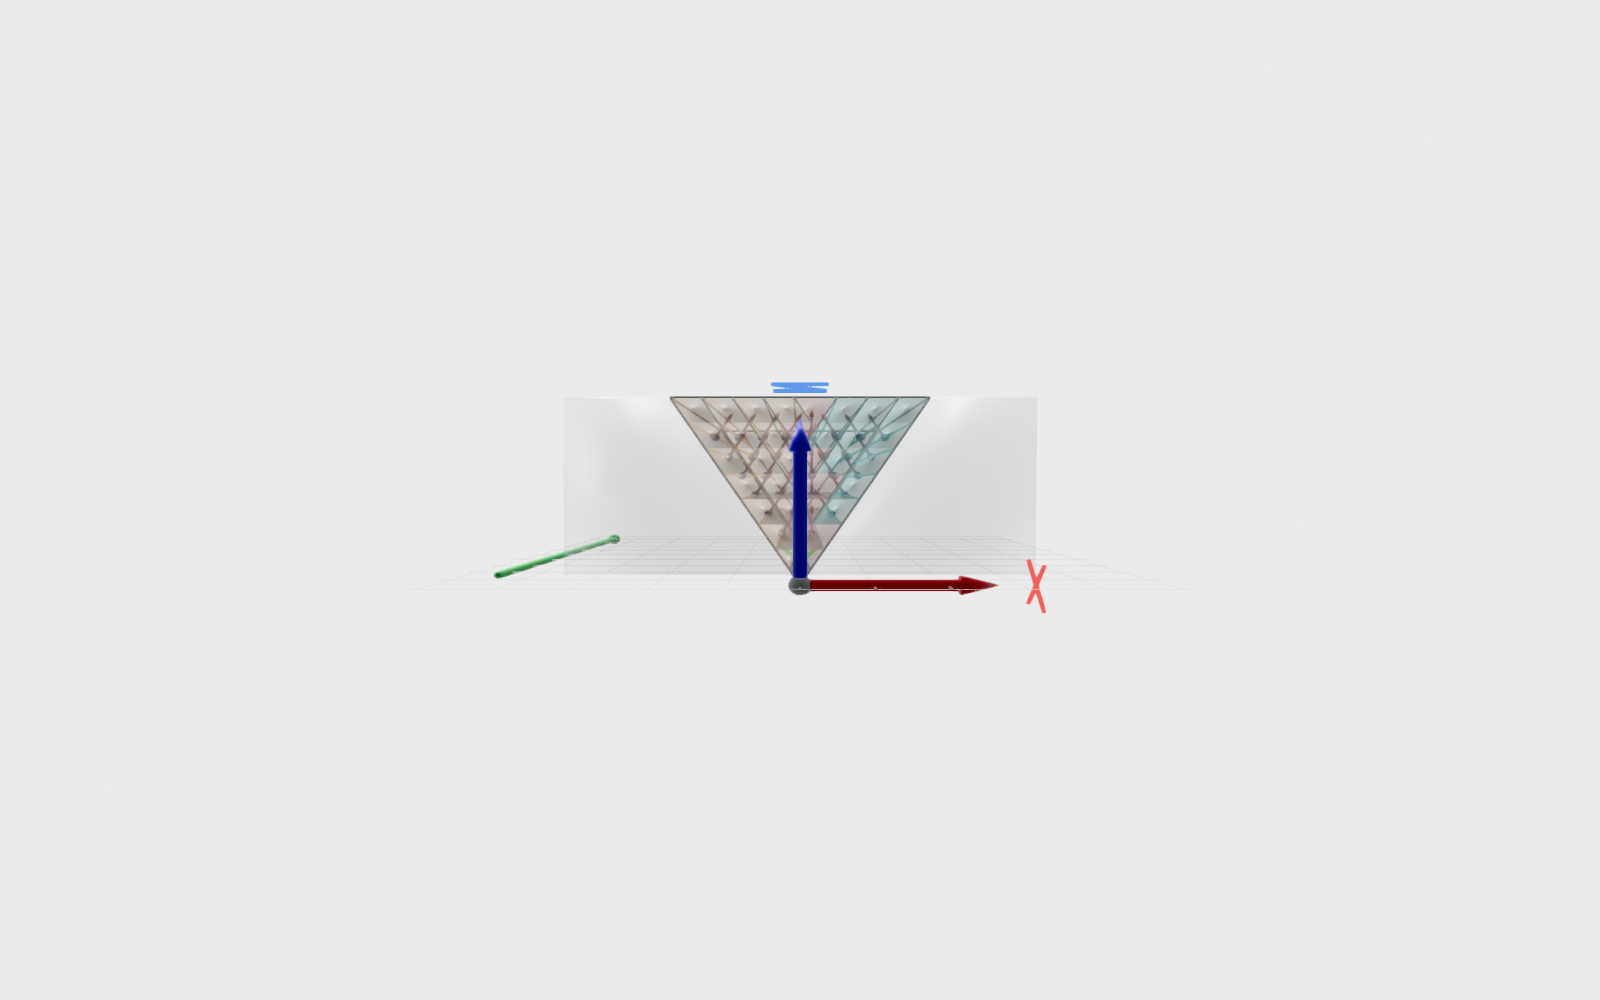
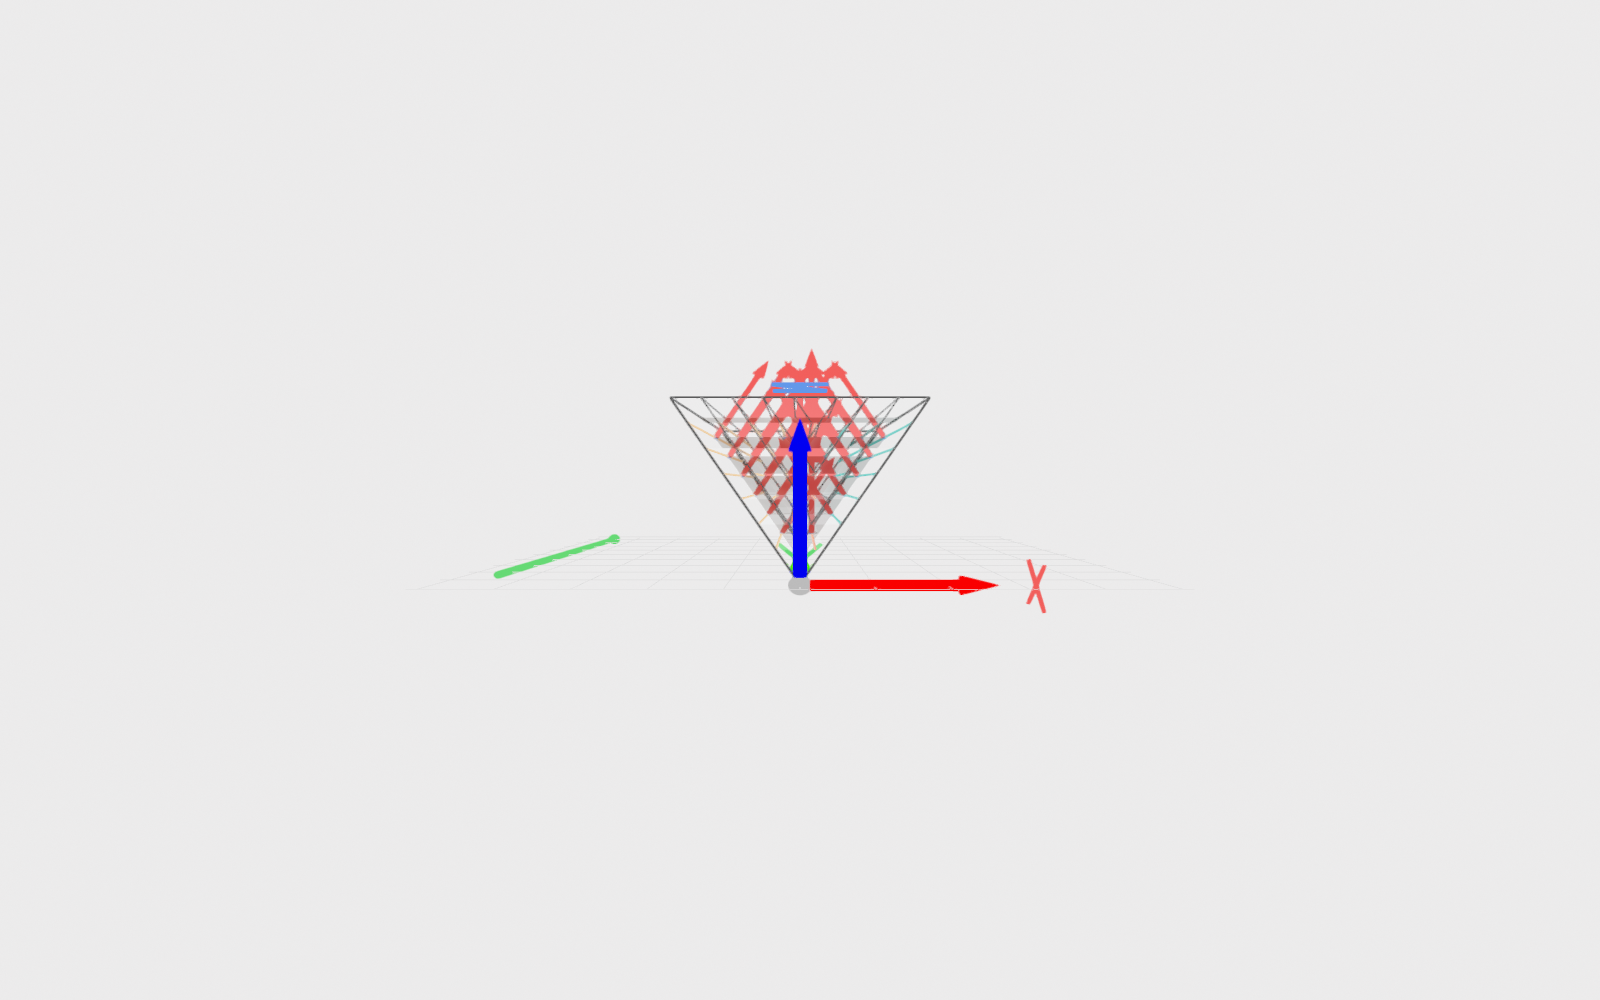
Add tunable transparency so torch arrows stay visible.
Expose --plate-alpha, --bead-alpha, --layer-alpha and --arrow-scale.
Default plates are wireframe-only; beads are a thin Y slice so pose
arrows are not buried inside the extruded volumes.

Changed region(s): [[0.4062, 0.341, 0.625, 0.589], [0.3438, 0.527, 0.375, 0.558], [0.3125, 0.558, 0.3438, 0.589]]

diff --git a/vgroove_weld_planning.py b/vgroove_weld_planning.py
@@ -67,6 +67,11 @@ class GrooveParams:
     d: float = 1.0
     v2: float = 1.0
     n_layers_simple: int = 7
+    plate_alpha: float = 0.0    # workpiece fill; 0 = wireframe only (arrows stay visible)
+    bead_alpha: float = 0.45    # weld-bead slice opacity
+    layer_alpha: float = 0.05   # layer-plane opacity
+    arrow_scale: float = 1.8    # torch-arrow length/thickness scale
+    bead_depth: float = 2.5     # bead slice thickness along Y, mm; 0 = full weld length
 
     @property
     def beta_rad(self) -> float:
@@ -586,8 +591,15 @@ def make_segment_dividers(plan: PlanResult) -> o3d.geometry.LineSet:
 
 def make_bead_meshes(plan: PlanResult) -> list[o3d.geometry.TriangleMesh]:
     L = plan.params.weld_length
+    depth = plan.params.bead_depth
+    if depth <= 0:
+        y0, y1 = 0.0, L
+    else:
+        y_mid = L / 2.0
+        half = 0.5 * depth
+        y0, y1 = y_mid - half, y_mid + half
     return [
-        _extrude_quad_mesh(bead.quad_xz, 0.0, L, BEAD_COLOR[bead.kind])
+        _extrude_quad_mesh(bead.quad_xz, y0, y1, BEAD_COLOR[bead.kind])
         for bead in plan.beads
     ]
 
@@ -606,13 +618,16 @@ def make_weld_paths(plan: PlanResult) -> o3d.geometry.LineSet:
 
 def make_weld_poses(plan: PlanResult) -> list[o3d.geometry.TriangleMesh]:
     y = plan.params.weld_length / 2.0
-    arrow_len = max(plan.t * 1.6, 3.5)
+    scale = max(plan.params.arrow_scale, 0.5)
+    arrow_len = max(plan.t * 2.6, 5.5) * scale
     geoms: list[o3d.geometry.TriangleMesh] = []
     for bead in plan.beads:
         origin = bead.position_3d(y)
-        geoms.append(make_sphere(origin, radius=0.45, color=POINT_COLOR))
-        geoms.append(make_arrow(origin, bead.torch_dir_3d() * arrow_len, TORCH_COLOR,
-                                cylinder_r=0.12, cone_r=0.28))
+        geoms.append(make_sphere(origin, radius=0.22, color=POINT_COLOR))
+        geoms.append(make_arrow(
+            origin, bead.torch_dir_3d() * arrow_len, TORCH_COLOR,
+            cylinder_r=0.16 * scale, cone_r=0.38 * scale,
+        ))
     return geoms
 
 
@@ -659,12 +674,21 @@ def _camera_eye_lookat_up(plan: PlanResult, view: str) -> tuple[np.ndarray, np.n
 
 
 def _vertex_color_material(alpha: float = 1.0) -> rendering.MaterialRecord:
-    """Keep TriangleMesh vertex colors (Open3D RGB triad, painted beads)."""
+    """Keep TriangleMesh vertex colors. alpha < 1 uses transparent shader."""
     mat = rendering.MaterialRecord()
-    mat.shader = "defaultLit" if alpha >= 0.999 else "defaultLitTransparency"
-    mat.base_color = [1.0, 1.0, 1.0, alpha]
+    a = float(np.clip(alpha, 0.0, 1.0))
+    mat.shader = "defaultLit" if a >= 0.999 else "defaultLitTransparency"
+    mat.base_color = [1.0, 1.0, 1.0, a]
     mat.base_roughness = 0.45
     mat.base_metallic = 0.0
+    return mat
+
+
+def _unlit_material() -> rendering.MaterialRecord:
+    """Opaque unlit material so pose/axis arrows stay bright."""
+    mat = rendering.MaterialRecord()
+    mat.shader = "defaultUnlit"
+    mat.base_color = [1.0, 1.0, 1.0, 1.0]
     return mat
 
 
@@ -676,6 +700,42 @@ def _line_material(width: float = 2.0) -> rendering.MaterialRecord:
     return mat
 
 
+def scene_items(plan: PlanResult) -> list[tuple[str, object, rendering.MaterialRecord]]:
+    """Named geometries with materials. Opaque arrows are last so they stay visible."""
+    p = plan.params
+    items: list[tuple[str, object, rendering.MaterialRecord]] = [
+        ("grid", make_xy_grid(p), _line_material(1.0)),
+        ("edges", make_groove_edges(p), _line_material(2.8)),
+        ("dividers", make_segment_dividers(plan), _line_material(1.6)),
+        ("paths", make_weld_paths(plan), _line_material(3.2)),
+    ]
+    plate_mat = _vertex_color_material(p.plate_alpha)
+    layer_mat = _vertex_color_material(p.layer_alpha)
+    bead_mat = _vertex_color_material(p.bead_alpha)
+    arrow_mat = _unlit_material()
+
+    if p.plate_alpha > 0.01:
+        for i, mesh in enumerate(make_plate_meshes(p)):
+            items.append((f"plate_{i}", mesh, plate_mat))
+    if p.layer_alpha > 0.01:
+        for i, mesh in enumerate(make_layer_planes(plan)):
+            items.append((f"layer_{i}", mesh, layer_mat))
+    if p.bead_alpha > 0.01:
+        for i, mesh in enumerate(make_bead_meshes(plan)):
+            items.append((f"bead_{i}", mesh, bead_mat))
+
+    axis_size = max(12.0, p.h * 0.85)
+    for i, geom in enumerate(make_coordinate_frame(size=axis_size)):
+        if isinstance(geom, o3d.geometry.LineSet):
+            items.append((f"axis_letter_{i}", geom, _line_material(6.0)))
+        else:
+            items.append((f"axis_{i}", geom, arrow_mat))
+    items.append(("weld_y_arrow", make_weld_axis_arrow(p), arrow_mat))
+    for i, mesh in enumerate(make_weld_poses(plan)):
+        items.append((f"pose_{i}", mesh, arrow_mat))
+    return items
+
+
 def render_screenshot(plan: PlanResult, path: Path, view: str = "perspective",
                       width: int = 1600, height: int = 1000) -> None:
     """Offscreen Filament render, Z-up right-handed camera."""
@@ -685,28 +745,8 @@ def render_screenshot(plan: PlanResult, path: Path, view: str = "perspective",
     scene.scene.set_sun_light([0.35, -0.55, -0.85], [1.0, 1.0, 1.0], 90_000)
     scene.scene.enable_sun_light(True)
 
-    p = plan.params
-    scene.add_geometry("grid", make_xy_grid(p), _line_material(1.0))
-    scene.add_geometry("edges", make_groove_edges(p), _line_material(2.8))
-    scene.add_geometry("dividers", make_segment_dividers(plan), _line_material(1.6))
-    scene.add_geometry("paths", make_weld_paths(plan), _line_material(3.2))
-
-    axis_size = max(12.0, p.h * 0.85)
-    for i, geom in enumerate(make_coordinate_frame(size=axis_size)):
-        if isinstance(geom, o3d.geometry.LineSet):
-            scene.add_geometry(f"axis_letter_{i}", geom, _line_material(6.0))
-        else:
-            scene.add_geometry(f"axis_{i}", geom, _vertex_color_material())
-    scene.add_geometry("weld_y_arrow", make_weld_axis_arrow(p), _vertex_color_material())
-
-    for i, mesh in enumerate(make_plate_meshes(p)):
-        scene.add_geometry(f"plate_{i}", mesh, _vertex_color_material(alpha=0.32))
-    for i, mesh in enumerate(make_layer_planes(plan)):
-        scene.add_geometry(f"layer_{i}", mesh, _vertex_color_material(alpha=0.16))
-    for i, mesh in enumerate(make_bead_meshes(plan)):
-        scene.add_geometry(f"bead_{i}", mesh, _vertex_color_material(alpha=0.72))
-    for i, mesh in enumerate(make_weld_poses(plan)):
-        scene.add_geometry(f"pose_{i}", mesh, _vertex_color_material())
+    for name, geom, mat in scene_items(plan):
+        scene.add_geometry(name, geom, mat)
 
     eye, lookat, up = _camera_eye_lookat_up(plan, view)
     scene.camera.look_at(lookat, eye, up)
@@ -715,27 +755,20 @@ def render_screenshot(plan: PlanResult, path: Path, view: str = "perspective",
 
 
 def show_open3d(plan: PlanResult, view: str = "perspective") -> None:
-    """Interactive Open3D window with 3D axis labels and sequence numbers."""
-    geoms = build_scene(plan)
-    vis = o3d.visualization.Visualizer()
-    vis.create_window(window_name="V-groove weld (Open3D)  Y=weld  X=Y×Z", width=1600, height=1000)
-    for g in geoms:
-        vis.add_geometry(g)
-    opt = vis.get_render_option()
-    opt.background_color = np.array([0.97, 0.97, 0.97])
-    opt.mesh_show_back_face = True
-    opt.line_width = 3.0
-    opt.show_coordinate_frame = True
-
+    """Interactive Open3D window; uses Filament materials so alpha is applied."""
+    app = o3d.visualization.gui.Application.instance
+    app.initialize()
+    vis = o3d.visualization.O3DVisualizer("V-groove weld  |  Y weld  |  X = Y × Z", 1600, 1000)
+    vis.show_skybox(False)
+    vis.show_axes = True
+    vis.point_size = 6
+    vis.line_width = 3
+    for name, geom, mat in scene_items(plan):
+        vis.add_geometry(name, geom, mat)
     eye, lookat, up = _camera_eye_lookat_up(plan, view)
-    ctr = vis.get_view_control()
-    ctr.set_lookat(lookat)
-    ctr.set_up(up)
-    ctr.set_front(eye - lookat)
-    ctr.set_zoom(0.55)
-
-    vis.run()
-    vis.destroy_window()
+    vis.setup_camera(60.0, lookat, eye, up)
+    app.add_window(vis)
+    app.run()
 
 
 def show_open3d_with_labels(plan: PlanResult) -> None:
@@ -753,8 +786,8 @@ def show_open3d_with_labels(plan: PlanResult) -> None:
     vis.point_size = 6
     vis.line_width = 3
 
-    for i, g in enumerate(build_scene(plan)):
-        vis.add_geometry(f"g_{i}", g)
+    for name, geom, mat in scene_items(plan):
+        vis.add_geometry(name, geom, mat)
 
     frame_origin = np.array([0.0, -6.0, 0.0])
     vis.add_3d_label((frame_origin + X_AXIS * 14.0).tolist(), "X  (Y×Z)")
@@ -780,6 +813,8 @@ def parameter_text(plan: PlanResult) -> str:
         f"  Number of layer: {plan.K}\n"
         f"  Number of weld points: {plan.point_number}\n"
         f"  Weld length Y: {p.weld_length:g} mm\n"
+        f"  Alpha  plate/bead/layer: {p.plate_alpha:g}/{p.bead_alpha:g}/{p.layer_alpha:g}\n"
+        f"  Bead depth (Y slice): {p.bead_depth:g} mm\n"
         "Frame (right-hand):  X = Y × Z,  Y = weld,  Z = height"
     )
 
@@ -794,6 +829,26 @@ def parse_args() -> argparse.Namespace:
     parser.add_argument("--beta", type=float, default=30.0)
     parser.add_argument("--g", dest="g", type=float, default=1.0)
     parser.add_argument("--weld-length", type=float, default=40.0)
+    parser.add_argument(
+        "--plate-alpha", type=float, default=0.0,
+        help="workpiece fill opacity in [0, 1]; 0 = wireframe only so arrows stay visible",
+    )
+    parser.add_argument(
+        "--bead-alpha", type=float, default=0.45,
+        help="weld-bead opacity in [0, 1]; lower makes torch arrows easier to see",
+    )
+    parser.add_argument(
+        "--layer-alpha", type=float, default=0.05,
+        help="layer-plane opacity in [0, 1]",
+    )
+    parser.add_argument(
+        "--bead-depth", type=float, default=2.5,
+        help="bead slice thickness along Y in mm; 0 extrudes the full weld length",
+    )
+    parser.add_argument(
+        "--arrow-scale", type=float, default=1.8,
+        help="scale of torch pose arrows (length and thickness)",
+    )
     parser.add_argument("--outdir", type=Path, default=Path("figures"))
     parser.add_argument("--show", action="store_true", help="open interactive Open3D window")
     parser.add_argument("--gui", action="store_true", help="Open3D GUI with 3D text labels")
@@ -804,7 +859,14 @@ def parse_args() -> argparse.Namespace:
 
 def main() -> None:
     args = parse_args()
-    params = GrooveParams(h=args.h, beta=args.beta, g=args.g, weld_length=args.weld_length)
+    params = GrooveParams(
+        h=args.h, beta=args.beta, g=args.g, weld_length=args.weld_length,
+        plate_alpha=float(np.clip(args.plate_alpha, 0.0, 1.0)),
+        bead_alpha=float(np.clip(args.bead_alpha, 0.0, 1.0)),
+        layer_alpha=float(np.clip(args.layer_alpha, 0.0, 1.0)),
+        arrow_scale=max(args.arrow_scale, 0.1),
+        bead_depth=max(args.bead_depth, 0.0),
+    )
     plan = plan_weld(params)
 
     print("V-shape groove weld planning  (Open3D, right-handed)")

diff --git a/README.md b/README.md
@@ -28,6 +28,11 @@ python3 vgroove_weld_planning.py
 python3 vgroove_weld_planning.py --show
 python3 vgroove_weld_planning.py --gui
 python3 vgroove_weld_planning.py --h 16 --beta 30 --g 1 --weld-length 40 --view end --show
+
+# transparency (0 = hidden, 1 = opaque). Lower these to see torch arrows.
+python3 vgroove_weld_planning.py --bead-alpha 0.2 --plate-alpha 0 --layer-alpha 0
+# restore solid workpiece / full-length beads if needed:
+python3 vgroove_weld_planning.py --plate-alpha 0.25 --bead-depth 0 --bead-alpha 0.15
 ```
 
 Screenshots: `figures/vgroove_open3d_perspective.png`, `figures/vgroove_open3d_endview.png`.
